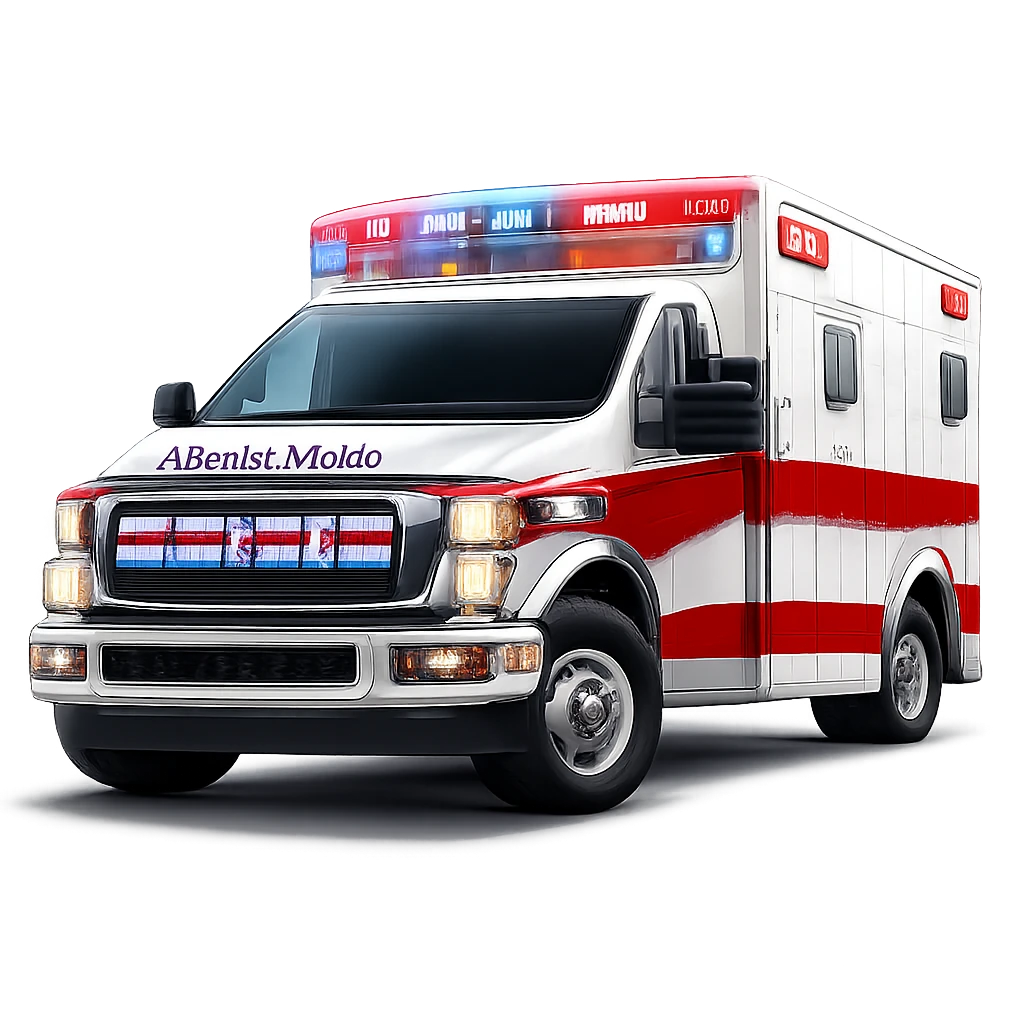
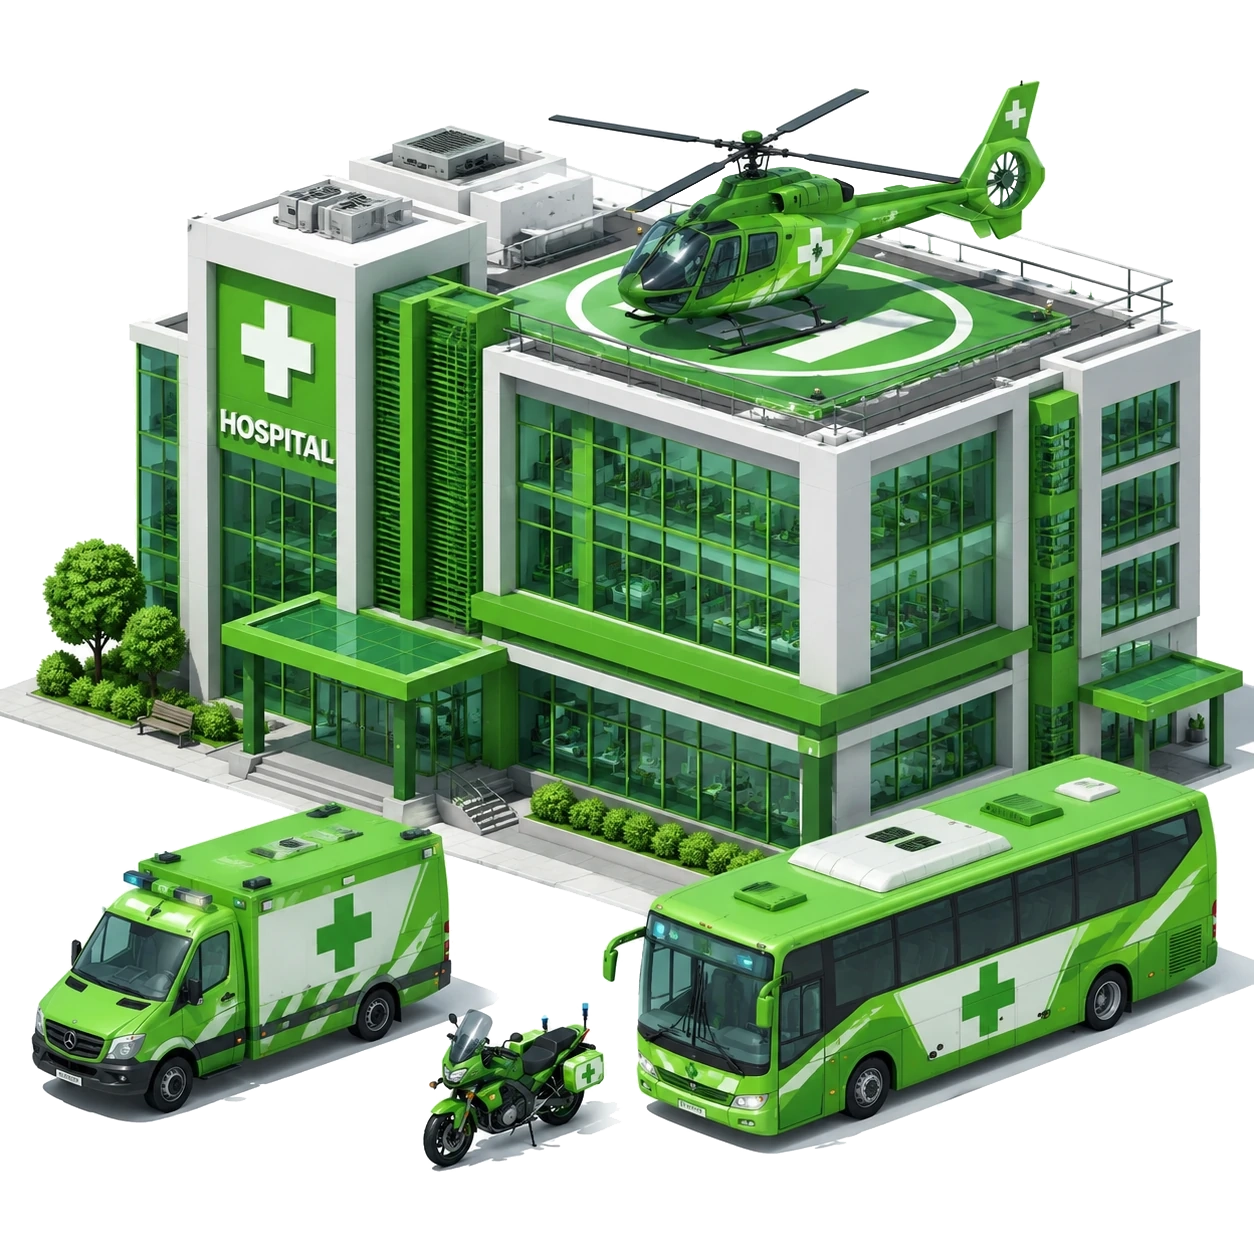
solutions

diff --git a/app/solutions/logistics/page.js b/app/solutions/logistics/page.js
@@ -3,7 +3,7 @@
 import Image from "next/image";
 import Link from "next/link";
 import { useRef } from "react";
-import { motion, useInView } from "framer-motion";
+import { motion, useInView, useScroll, useTransform } from "framer-motion";
 import {
   ArrowRight,
   Truck,
@@ -33,6 +33,172 @@ function FadeIn({ children, delay = 0, className = "" }) {
     >
       {children}
     </motion.div>
+  );
+}
+
+/* ─── Scroll-driven vertical road ─── */
+function JourneySection({ accent }) {
+  const sectionRef = useRef(null);
+  const { scrollYProgress } = useScroll({
+    target: sectionRef,
+    offset: ["start end", "end start"],
+  });
+
+  const vehicleTop = useTransform(scrollYProgress, [0, 1], ["-3%", "94%"]);
+
+  return (
+    <section ref={sectionRef} className="relative py-20 sm:py-24 lg:py-28 overflow-hidden" style={{ background: "#f0f9ff" }}>
+      {/* Road on the right */}
+      <div className="hidden md:block absolute right-0 top-0 bottom-0 w-60 pointer-events-none">
+        <div className="relative h-full w-28 sm:w-32 mx-auto">
+          <div className="absolute inset-0 bg-slate-600 rounded-sm shadow-lg" />
+          <div className="absolute left-[6px] inset-y-0 w-[2px] bg-white/60" />
+          <div className="absolute right-[6px] inset-y-0 w-[2px] bg-white/60" />
+          <div className="absolute left-1/2 -translate-x-1/2 inset-y-0 w-[3px]" style={{
+            background: "repeating-linear-gradient(180deg, #a8a29e 0px, #a8a29e 28px, transparent 28px, transparent 52px)",
+          }} />
+
+          <motion.div
+            className="absolute left-1/3 -translate-x-1/2 z-10"
+            style={{ top: vehicleTop }}
+          >
+            <div className="-translate-y-1/2 w-44 h-44 sm:w-56 sm:h-56">
+              <Image
+                src="/images/elements/logistics.png"
+                alt=""
+                width={224}
+                height={224}
+                className="w-full h-full object-contain drop-shadow-[0_4px_8px_rgba(0,0,0,0.3)]"
+              />
+            </div>
+          </motion.div>
+        </div>
+      </div>
+
+      <div className="relative z-10 max-w-7xl mx-auto px-4 sm:px-6 lg:px-8 md:mr-60">
+        <FadeIn>
+          <div className="max-w-3xl">
+            <p className="mb-3 text-sm font-bold uppercase tracking-[0.2em]" style={{ color: accent }}>
+              From Pickup to Delivery
+            </p>
+            <h2 className="text-3xl font-extrabold tracking-tight text-slate-950 sm:text-4xl">
+              Every stage of the journey, covered.
+            </h2>
+            <p className="mt-5 text-base leading-8 text-slate-600 sm:text-lg">
+              One platform tracks every phase — from the moment a truck leaves the yard
+              until the cargo is signed for.
+            </p>
+          </div>
+        </FadeIn>
+
+        <div className="relative mt-16">
+          <div className="absolute left-8 top-0 bottom-0 w-0.5 hidden md:block" style={{ background: accent + "33" }} />
+
+          <div className="space-y-12 max-w-4xl mx-auto">
+            <FadeIn delay={0.05}>
+              <div className="relative md:pl-20">
+                <div className="absolute left-0 top-0 hidden md:flex h-16 w-16 items-center justify-center rounded-2xl text-white shadow-lg" style={{ background: accent }}>
+                  <Warehouse className="h-7 w-7" />
+                </div>
+                <div className="rounded-2xl border bg-white p-6 shadow-sm" style={{ borderColor: accent + "22" }}>
+                  <div className="mb-1 flex items-center gap-3">
+                    <span className="flex md:hidden h-10 w-10 items-center justify-center rounded-xl text-white" style={{ background: accent }}>
+                      <Warehouse className="h-5 w-5" />
+                    </span>
+                    <div>
+                      <h3 className="text-xl font-extrabold text-slate-950">Departure</h3>
+                      <p className="text-sm font-medium" style={{ color: accent }}>Loading Bay</p>
+                    </div>
+                  </div>
+                  <p className="mt-3 text-base leading-7 text-slate-600">
+                    Every trip is documented before the wheels turn. RFID verifies the driver and vehicle,
+                    BLE tags register every item of cargo, and the optimised route is pushed to the in-cab
+                    tablet. Temperature sensors on reefers start reporting before the truck leaves the yard.
+                    The system knows exactly what left, on which truck, driven by whom, and where it is going.
+                  </p>
+                </div>
+              </div>
+            </FadeIn>
+
+            <FadeIn delay={0.1}>
+              <div className="relative md:pl-20">
+                <div className="absolute left-0 top-0 hidden md:flex h-16 w-16 items-center justify-center rounded-2xl text-white shadow-lg" style={{ background: accent }}>
+                  <Route className="h-7 w-7" />
+                </div>
+                <div className="rounded-2xl border bg-white p-6 shadow-sm" style={{ borderColor: accent + "22" }}>
+                  <div className="mb-1 flex items-center gap-3">
+                    <span className="flex md:hidden h-10 w-10 items-center justify-center rounded-xl text-white" style={{ background: accent }}>
+                      <Route className="h-5 w-5" />
+                    </span>
+                    <div>
+                      <h3 className="text-xl font-extrabold text-slate-950">In Transit</h3>
+                      <p className="text-sm font-medium" style={{ color: accent }}>On the Road</p>
+                    </div>
+                  </div>
+                  <p className="mt-3 text-base leading-7 text-slate-600">
+                    Live GPS streams to a customer portal so recipients track shipments without calling
+                    your dispatcher. AI dashcams monitor driver fatigue and phone use — delivering in-cab
+                    alerts the moment a risk is detected. Fuel consumption is cross-referenced against the
+                    planned route, and geofences at waypoints trigger alerts when a truck is early, late,
+                    or off-route.
+                  </p>
+                </div>
+              </div>
+            </FadeIn>
+
+            <FadeIn delay={0.15}>
+              <div className="relative md:pl-20">
+                <div className="absolute left-0 top-0 hidden md:flex h-16 w-16 items-center justify-center rounded-2xl text-white shadow-lg" style={{ background: accent }}>
+                  <MapPin className="h-7 w-7" />
+                </div>
+                <div className="rounded-2xl border bg-white p-6 shadow-sm" style={{ borderColor: accent + "22" }}>
+                  <div className="mb-1 flex items-center gap-3">
+                    <span className="flex md:hidden h-10 w-10 items-center justify-center rounded-xl text-white" style={{ background: accent }}>
+                      <MapPin className="h-5 w-5" />
+                    </span>
+                    <div>
+                      <h3 className="text-xl font-extrabold text-slate-950">Delivery</h3>
+                      <p className="text-sm font-medium" style={{ color: accent }}>Drop-off Point</p>
+                    </div>
+                  </div>
+                  <p className="mt-3 text-base leading-7 text-slate-600">
+                    The driver captures proof of delivery in the FleetInfinity app, performs a BLE scan to
+                    confirm cargo integrity matches what left the warehouse, and the recipient signs
+                    digitally. The entire transaction — time-stamped, geo-tagged, and photo-verified —
+                    syncs to the cloud before the truck pulls away.
+                  </p>
+                </div>
+              </div>
+            </FadeIn>
+
+            <FadeIn delay={0.2}>
+              <div className="relative md:pl-20">
+                <div className="absolute left-0 top-0 hidden md:flex h-16 w-16 items-center justify-center rounded-2xl text-white shadow-lg" style={{ background: accent }}>
+                  <BarChart3 className="h-7 w-7" />
+                </div>
+                <div className="rounded-2xl border bg-white p-6 shadow-sm" style={{ borderColor: accent + "22" }}>
+                  <div className="mb-1 flex items-center gap-3">
+                    <span className="flex md:hidden h-10 w-10 items-center justify-center rounded-xl text-white" style={{ background: accent }}>
+                      <BarChart3 className="h-5 w-5" />
+                    </span>
+                    <div>
+                      <h3 className="text-xl font-extrabold text-slate-950">Review</h3>
+                      <p className="text-sm font-medium" style={{ color: accent }}>Back Office</p>
+                    </div>
+                  </div>
+                  <p className="mt-3 text-base leading-7 text-slate-600">
+                    A trip report assembles itself — fuel vs. planned route variance, driver safety
+                    events flagged by the dashcam, maintenance needs scheduled into the workshop calendar.
+                    The trip data is archived against that vehicle and driver, and the next dispatch
+                    starts with full knowledge of the fleet's current state.
+                  </p>
+                </div>
+              </div>
+            </FadeIn>
+          </div>
+        </div>
+      </div>
+    </section>
   );
 }
 
@@ -244,141 +410,7 @@ export default function LogisticsPage() {
       </section>
 
       {/* ═══════════════════ JOURNEY ═══════════════════ */}
-      <section className="relative py-20 sm:py-24 lg:py-28" style={{ clipPath: "inset(0)" }}>
-        <div
-          className="fixed inset-0 -z-10"
-          style={{
-            backgroundColor: "#f0f9ff",
-            backgroundImage: `url('/images/elements/logistics.png')`,
-            backgroundRepeat: "no-repeat",
-            backgroundPosition: "right 2rem bottom 2rem",
-            backgroundSize: "clamp(160px, 28vw, 380px)",
-          }}
-        />
-        <div className="container mx-auto max-w-7xl px-4 sm:px-6 lg:px-8 relative z-10">
-          <FadeIn>
-            <div className="max-w-3xl">
-              <p className="mb-3 text-sm font-bold uppercase tracking-[0.2em]" style={{ color: accent }}>
-                From Pickup to Delivery
-              </p>
-              <h2 className="text-3xl font-extrabold tracking-tight text-slate-950 sm:text-4xl">
-                Every stage of the journey, covered.
-              </h2>
-              <p className="mt-5 text-base leading-8 text-slate-600 sm:text-lg">
-                One platform tracks every phase — from the moment a truck leaves the yard
-                until the cargo is signed for.
-              </p>
-            </div>
-          </FadeIn>
-
-          <div className="relative mt-16">
-            <div className="absolute left-8 top-0 bottom-0 w-0.5 hidden md:block" style={{ background: accent + "33" }} />
-
-            <div className="space-y-12 max-w-4xl mx-auto">
-              <FadeIn delay={0.05}>
-                <div className="relative md:pl-20">
-                  <div className="absolute left-0 top-0 hidden md:flex h-16 w-16 items-center justify-center rounded-2xl text-white shadow-lg" style={{ background: accent }}>
-                    <Warehouse className="h-7 w-7" />
-                  </div>
-                  <div className="rounded-2xl border bg-white p-6 shadow-sm" style={{ borderColor: accent + "22" }}>
-                    <div className="mb-1 flex items-center gap-3">
-                      <span className="flex md:hidden h-10 w-10 items-center justify-center rounded-xl text-white" style={{ background: accent }}>
-                        <Warehouse className="h-5 w-5" />
-                      </span>
-                      <div>
-                        <h3 className="text-xl font-extrabold text-slate-950">Departure</h3>
-                        <p className="text-sm font-medium" style={{ color: accent }}>Loading Bay</p>
-                      </div>
-                    </div>
-                    <p className="mt-3 text-base leading-7 text-slate-600">
-                      Every trip is documented before the wheels turn. RFID verifies the driver and vehicle,
-                      BLE tags register every item of cargo, and the optimised route is pushed to the in-cab
-                      tablet. Temperature sensors on reefers start reporting before the truck leaves the yard.
-                      The system knows exactly what left, on which truck, driven by whom, and where it is going.
-                    </p>
-                  </div>
-                </div>
-              </FadeIn>
-
-              <FadeIn delay={0.1}>
-                <div className="relative md:pl-20">
-                  <div className="absolute left-0 top-0 hidden md:flex h-16 w-16 items-center justify-center rounded-2xl text-white shadow-lg" style={{ background: accent }}>
-                    <Route className="h-7 w-7" />
-                  </div>
-                  <div className="rounded-2xl border bg-white p-6 shadow-sm" style={{ borderColor: accent + "22" }}>
-                    <div className="mb-1 flex items-center gap-3">
-                      <span className="flex md:hidden h-10 w-10 items-center justify-center rounded-xl text-white" style={{ background: accent }}>
-                        <Route className="h-5 w-5" />
-                      </span>
-                      <div>
-                        <h3 className="text-xl font-extrabold text-slate-950">In Transit</h3>
-                        <p className="text-sm font-medium" style={{ color: accent }}>On the Road</p>
-                      </div>
-                    </div>
-                    <p className="mt-3 text-base leading-7 text-slate-600">
-                      Live GPS streams to a customer portal so recipients track shipments without calling
-                      your dispatcher. AI dashcams monitor driver fatigue and phone use — delivering in-cab
-                      alerts the moment a risk is detected. Fuel consumption is cross-referenced against the
-                      planned route, and geofences at waypoints trigger alerts when a truck is early, late,
-                      or off-route.
-                    </p>
-                  </div>
-                </div>
-              </FadeIn>
-
-              <FadeIn delay={0.15}>
-                <div className="relative md:pl-20">
-                  <div className="absolute left-0 top-0 hidden md:flex h-16 w-16 items-center justify-center rounded-2xl text-white shadow-lg" style={{ background: accent }}>
-                    <MapPin className="h-7 w-7" />
-                  </div>
-                  <div className="rounded-2xl border bg-white p-6 shadow-sm" style={{ borderColor: accent + "22" }}>
-                    <div className="mb-1 flex items-center gap-3">
-                      <span className="flex md:hidden h-10 w-10 items-center justify-center rounded-xl text-white" style={{ background: accent }}>
-                        <MapPin className="h-5 w-5" />
-                      </span>
-                      <div>
-                        <h3 className="text-xl font-extrabold text-slate-950">Delivery</h3>
-                        <p className="text-sm font-medium" style={{ color: accent }}>Drop-off Point</p>
-                      </div>
-                    </div>
-                    <p className="mt-3 text-base leading-7 text-slate-600">
-                      The driver captures proof of delivery in the FleetInfinity app, performs a BLE scan to
-                      confirm cargo integrity matches what left the warehouse, and the recipient signs
-                      digitally. The entire transaction — time-stamped, geo-tagged, and photo-verified —
-                      syncs to the cloud before the truck pulls away.
-                    </p>
-                  </div>
-                </div>
-              </FadeIn>
-
-              <FadeIn delay={0.2}>
-                <div className="relative md:pl-20">
-                  <div className="absolute left-0 top-0 hidden md:flex h-16 w-16 items-center justify-center rounded-2xl text-white shadow-lg" style={{ background: accent }}>
-                    <BarChart3 className="h-7 w-7" />
-                  </div>
-                  <div className="rounded-2xl border bg-white p-6 shadow-sm" style={{ borderColor: accent + "22" }}>
-                    <div className="mb-1 flex items-center gap-3">
-                      <span className="flex md:hidden h-10 w-10 items-center justify-center rounded-xl text-white" style={{ background: accent }}>
-                        <BarChart3 className="h-5 w-5" />
-                      </span>
-                      <div>
-                        <h3 className="text-xl font-extrabold text-slate-950">Review</h3>
-                        <p className="text-sm font-medium" style={{ color: accent }}>Back Office</p>
-                      </div>
-                    </div>
-                    <p className="mt-3 text-base leading-7 text-slate-600">
-                      A trip report assembles itself — fuel vs. planned route variance, driver safety
-                      events flagged by the dashcam, maintenance needs scheduled into the workshop calendar.
-                      The trip data is archived against that vehicle and driver, and the next dispatch
-                      starts with full knowledge of the fleet's current state.
-                    </p>
-                  </div>
-                </div>
-              </FadeIn>
-            </div>
-          </div>
-        </div>
-      </section>
+      <JourneySection accent={accent} />
 
       {/* ═══════════════════ LIVE FLEET DASHBOARD ═══════════════════ */}
       <section className="py-20 sm:py-24 lg:py-28">